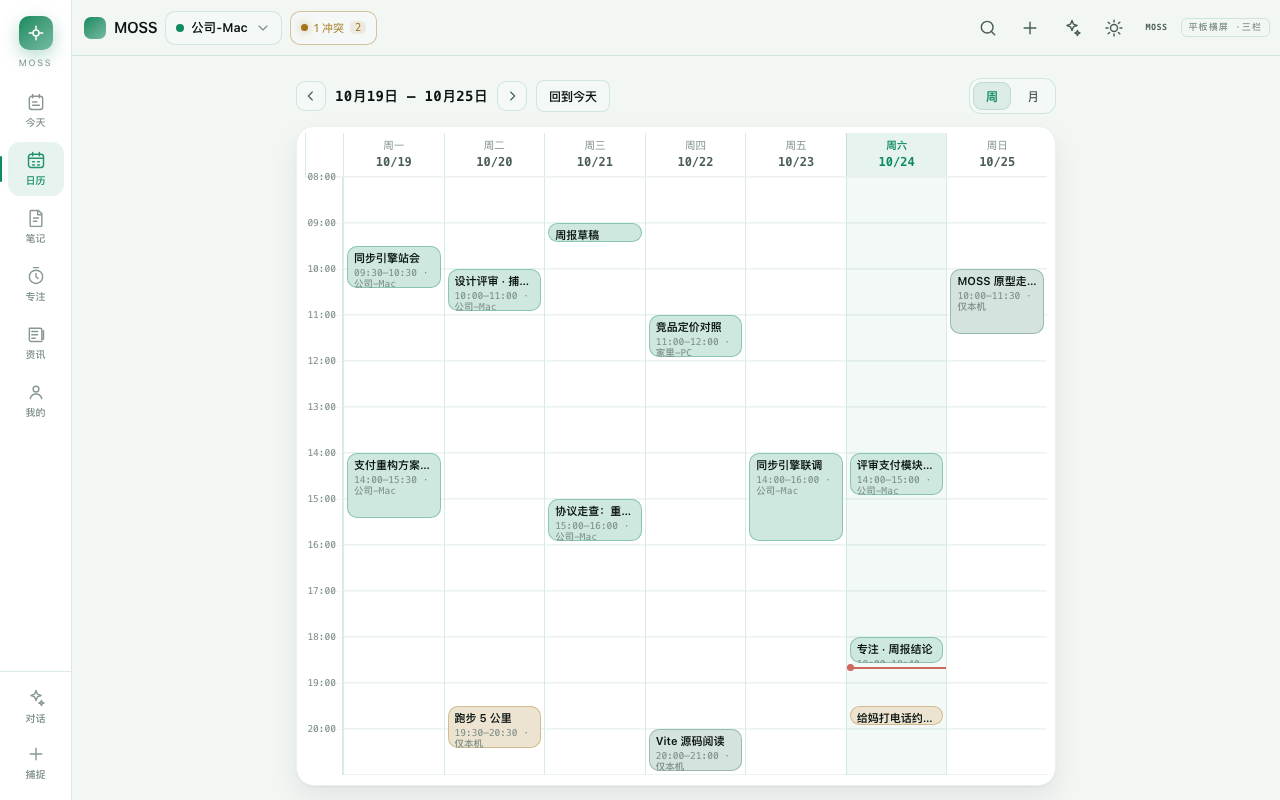
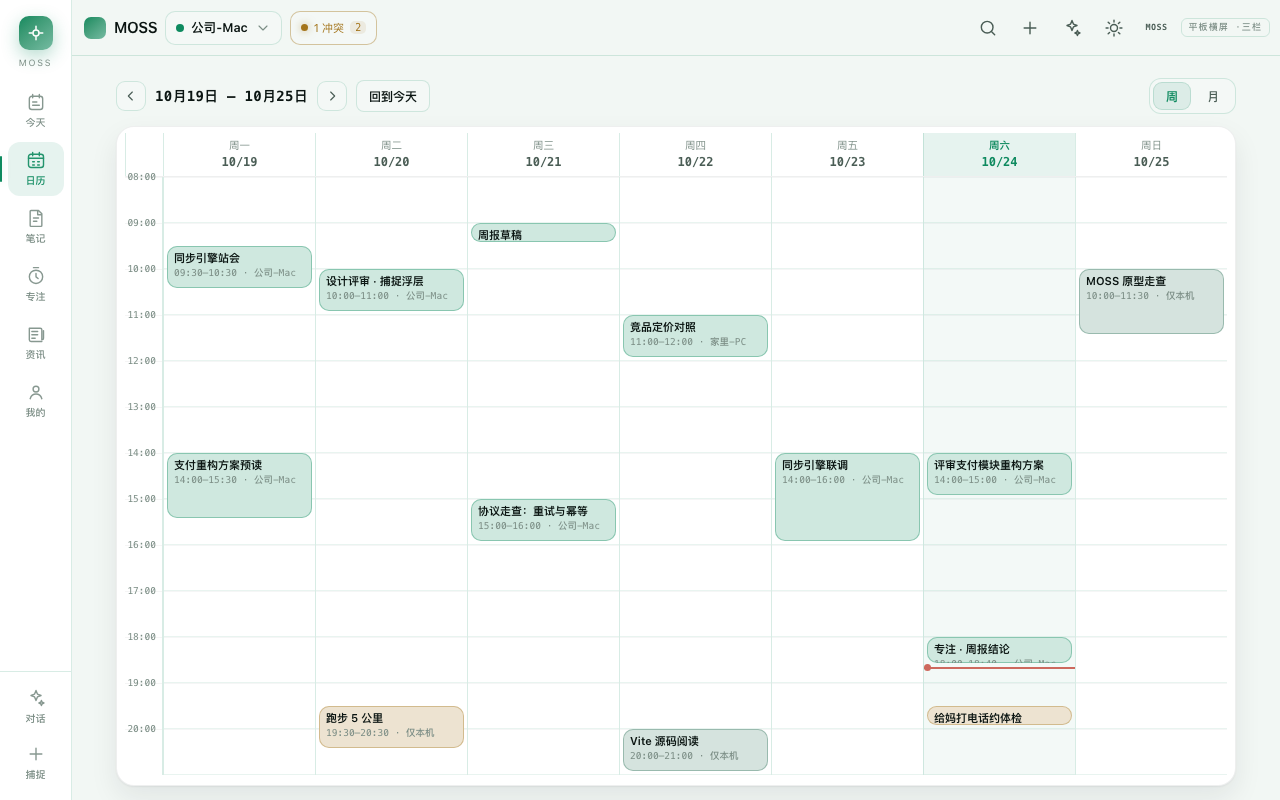
feat(prototype): 宽屏布局不再空旷
- 宽屏内容区 max-width 760 → 1120
- 今天：清单卡片两列（每列 554px）
- 专注：左计时 440 + 右队列/统计 644 两栏
- 资讯：三列瀑布流，容器宽度放开
- 笔记：笔记列表列加宽到 300
- verify ALL_PASS

diff --git a/docs/prototype/index.html b/docs/prototype/index.html
@@ -1093,6 +1093,27 @@ body{
 .lbody .trow .tt{white-space:normal;display:-webkit-box;-webkit-line-clamp:2;-webkit-box-orient:vertical;overflow:hidden}
 .lbody .trow .tmeta{margin-top:7px}
 .lbody .conflict-card{margin:-2px 0 10px}
+
+/* ═══════════ 宽屏：内容区放宽 + 利用横向空间 ═══════════ */
+@media (min-width:1100px) and (min-height:560px){
+  .center{max-width:1120px}
+  /* 今天：任务卡两列 */
+  .lbody{display:grid;grid-template-columns:1fr 1fr;gap:12px;align-items:start}
+  .lbody .trow{margin:0}
+  .lbody .conflict-card{grid-column:1 / -1;margin:0}
+  .lbody .lempty{grid-column:1 / -1}
+  /* 资讯：三列 */
+  .newsgrid{columns:3}
+  /* 专注：左计时 + 右队列/统计 */
+  #s-focus .center{display:grid;grid-template-columns:minmax(340px,440px) 1fr;gap:8px 36px;align-items:start}
+  #s-focus .focus-left{grid-column:1;display:flex;flex-direction:column;align-items:center}
+  #s-focus .focus-right{grid-column:2;min-width:0}
+  .focus-right .sect:first-child{margin-top:0}
+  /* 笔记：编辑器占更大宽度 */
+  .notes-wrap .notecol{flex:0 0 300px}
+  /* 日历：让周视图撑满 */
+  .weekwrap{max-width:none}
+}
 </style>
 </head>
 <body class="dsh" data-skin="moss" data-light="1">
@@ -1271,7 +1292,7 @@ body{
       <!-- ── 专注 ── -->
       <section class="screen" id="s-focus">
         <div class="pad"><div class="center">
-          <div class="focus-wrap">
+          <div class="focus-left"><div class="focus-wrap">
             <button class="imm-tip" id="immExit"><span class="dot acc"></span>沉浸模式中 · 点此退出</button>
             <div class="ringwrap">
               <svg viewBox="0 0 240 240">
@@ -1303,6 +1324,7 @@ body{
               <span class="badge mut">切换</span>
             </button>
           </div>
+          </div><div class="focus-right">
           <div class="sect"><span class="t">专注队列</span><span class="n">3 条待专注</span><span class="line"></span></div>
           <div id="focusQueue"></div>
           <div class="sect"><span class="t">今日专注统计</span><span class="n">截至 18:40</span><span class="line"></span></div>
@@ -1317,12 +1339,13 @@ body{
               <button class="switch" id="swImm" aria-label="沉浸模式"></button>
             </div>
           </div>
+          </div>
         </div></div>
       </section>
 
       <!-- ── 资讯 ── -->
       <section class="screen" id="s-news">
-        <div class="pad"><div class="center" style="max-width:1080px">
+        <div class="pad"><div class="center">
           <div class="row wrap" style="gap:10px">
             <div>
               <div style="font-size:19px;font-weight:600;letter-spacing:-.2px">资讯</div>
